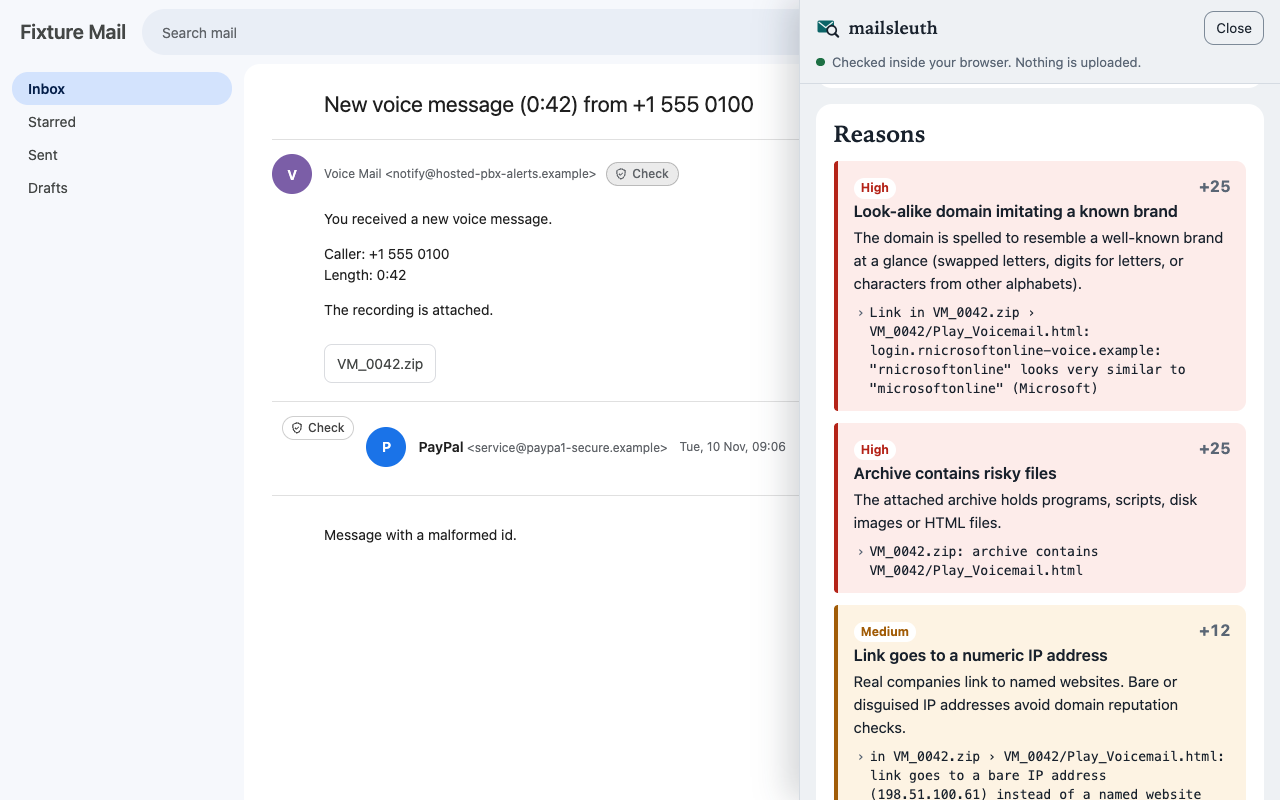
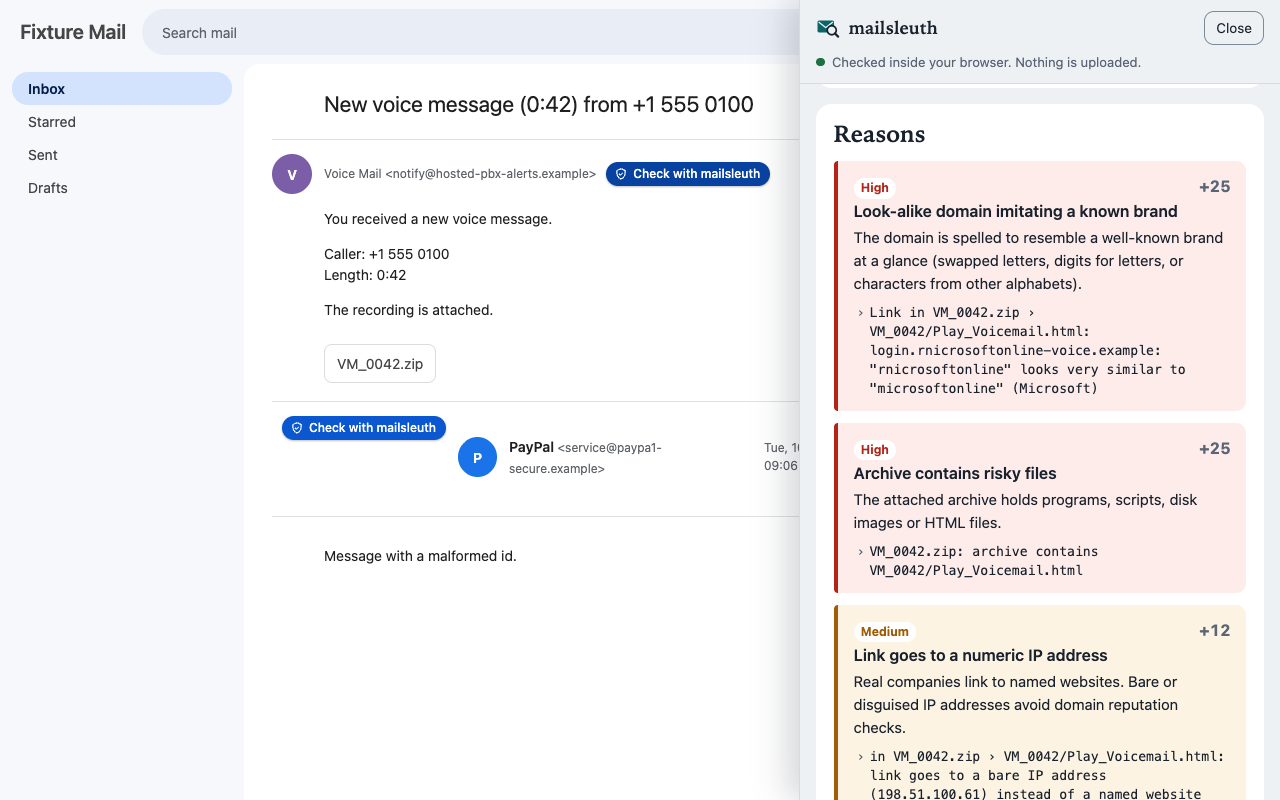
Extension: solid blue "Check with mailsleuth" chip so it is easy to spot

diff --git a/src/extension/content.ts b/src/extension/content.ts
@@ -57,13 +57,13 @@ window.addEventListener('message', (e) => {
   if (e.origin === EXT_ORIGIN && frame && e.source === frame.contentWindow && e.data?.type === 'close') closePanel();
 });
 
-// Neutral colours taken from the surrounding text, so the chip suits Gmail's light and dark themes.
+// Solid blue with white text (6.6:1 contrast) stands out on both Gmail's light and dark themes.
 const style = document.createElement('style');
-style.textContent = `.mailsleuth-chip{display:inline-flex;align-items:center;gap:4px;height:24px;padding:0 9px 0 7px;margin:0;
-font:500 12px/1 "Google Sans",system-ui,-apple-system,"Segoe UI",Roboto,sans-serif;color:inherit;background:transparent;
-border:1px solid rgba(128,128,128,.45);border-radius:999px;cursor:pointer;opacity:.85}
-.mailsleuth-chip:hover{opacity:1;background:rgba(128,128,128,.16)}
-.mailsleuth-chip:focus-visible{opacity:1;outline:2px solid #0b8a8f;outline-offset:2px}`;
+style.textContent = `.mailsleuth-chip{display:inline-flex;align-items:center;gap:5px;height:24px;padding:0 10px 0 8px;margin:0;
+font:500 12px/1 "Google Sans",system-ui,-apple-system,"Segoe UI",Roboto,sans-serif;color:#fff;background:#0b57d0;
+border:0;border-radius:999px;cursor:pointer;box-shadow:0 1px 2px rgba(0,0,0,.25)}
+.mailsleuth-chip:hover{background:#0842a0}
+.mailsleuth-chip:focus-visible{outline:2px solid #a8c7fa;outline-offset:2px}`;
 document.head.append(style);
 
 function shieldIcon(): SVGSVGElement {
@@ -97,7 +97,7 @@ function addButtons() {
     button.className = 'mailsleuth-chip';
     button.setAttribute('aria-label', 'Check with mailsleuth');
     button.title = 'Check this email for phishing signs (mailsleuth, offline)';
-    button.append(shieldIcon(), 'Check');
+    button.append(shieldIcon(), 'Check with mailsleuth');
     // The chip sits in Gmail's header, where a click would also collapse the message.
     for (const type of ['mousedown', 'mouseup', 'click']) button.addEventListener(type, (e) => e.stopPropagation());
     button.addEventListener('click', () => void check(query, button));

diff --git a/README.md b/README.md
@@ -10,7 +10,7 @@ Built for regular people who want a second opinion on one email, and for SOC beg
 
 ## Use it inside Gmail
 
-A browser extension adds a small **🛡 Check** button to the sender line of each open email in Gmail on the web. One click shows the full result in a panel next to the email: score, risk level, every reason with its evidence, links, and attachment hashes with VirusTotal and MalwareBazaar lookup buttons. No exporting, no pasting.
+A browser extension adds a small blue **Check with mailsleuth** button to the sender line of each open email in Gmail on the web. One click shows the full result in a panel next to the email: score, risk level, every reason with its evidence, links, and attachment hashes with VirusTotal and MalwareBazaar lookup buttons. No exporting, no pasting.
 
 ![The mailsleuth panel open next to an email in a Gmail-like test page: a synthetic voicemail with a ZIP attachment scores 62 out of 100, high risk, with what to do next](docs/screenshots/extension-gmail.png)
 
@@ -26,7 +26,7 @@ npm run build:extension   # writes dist-extension/ and mailsleuth-extension-chro
 1. Open `chrome://extensions` (Edge: `edge://extensions`, Brave: `brave://extensions`).
 2. Turn on **Developer mode** (top right).
 3. Click **Load unpacked** and choose the `dist-extension` folder.
-4. Reload Gmail, open an email, click **Check** next to the sender's name. Escape or **Close** hides the panel.
+4. Reload Gmail, open an email, click **Check with mailsleuth** next to the sender's name. Escape or **Close** hides the panel.
 
 Without Node: every CI run on `main` uploads the same build as the `mailsleuth-extension` artifact (Actions tab, needs a GitHub login); unzip `mailsleuth-extension-chrome.zip` and load that folder. Firefox 128+: `about:debugging#/runtime/this-firefox` › **Load Temporary Add-on** › pick `mailsleuth-extension-firefox.zip`; this build exists but has not been tested in Firefox.
 

diff --git a/CHANGELOG.md b/CHANGELOG.md
@@ -5,7 +5,7 @@ All notable changes to this project are documented here. Format: [Keep a Changel
 ## [Unreleased]
 
 ### Fixed
-- Extension: the button stretched into a tall coloured column beside the email, because Gmail lays each message out as a row. It is now a small "Check" chip in the sender line, next to Gmail's own unsubscribe link, with neutral colours for light and dark themes; clicking it no longer collapses the message.
+- Extension: the button stretched into a tall coloured column beside the email, because Gmail lays each message out as a row. It is now a small blue "Check with mailsleuth" chip in the sender line, next to Gmail's own unsubscribe link, readable in light and dark themes; clicking it no longer collapses the message.
 - Extension: "Check with mailsleuth" failed in Chrome with "Failed to fetch". Gmail redirects its download link to `mail-attachment.googleusercontent.com`, and the request was same-origin only, so the browser blocked the redirect. The redirect is now followed; a response from any host other than Gmail's two is discarded.
 
 ### Added (round 17: browser extension)
